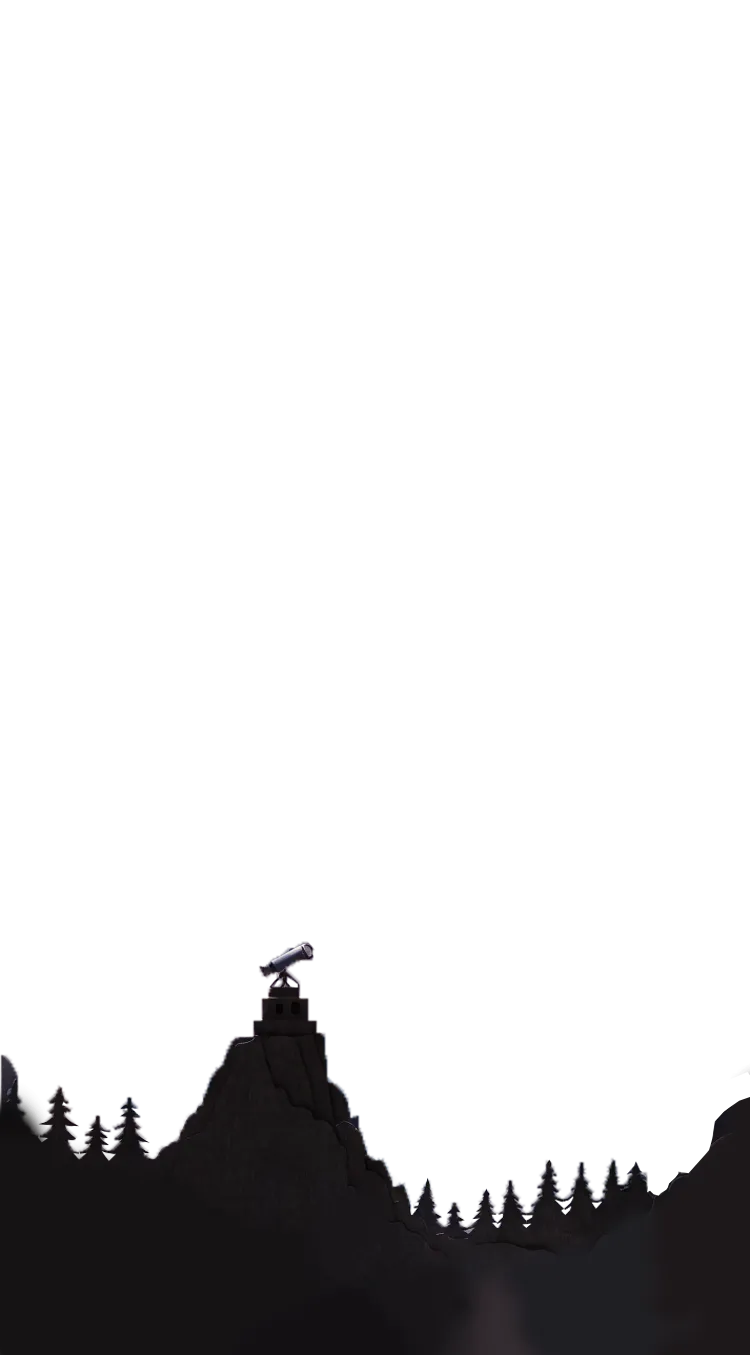
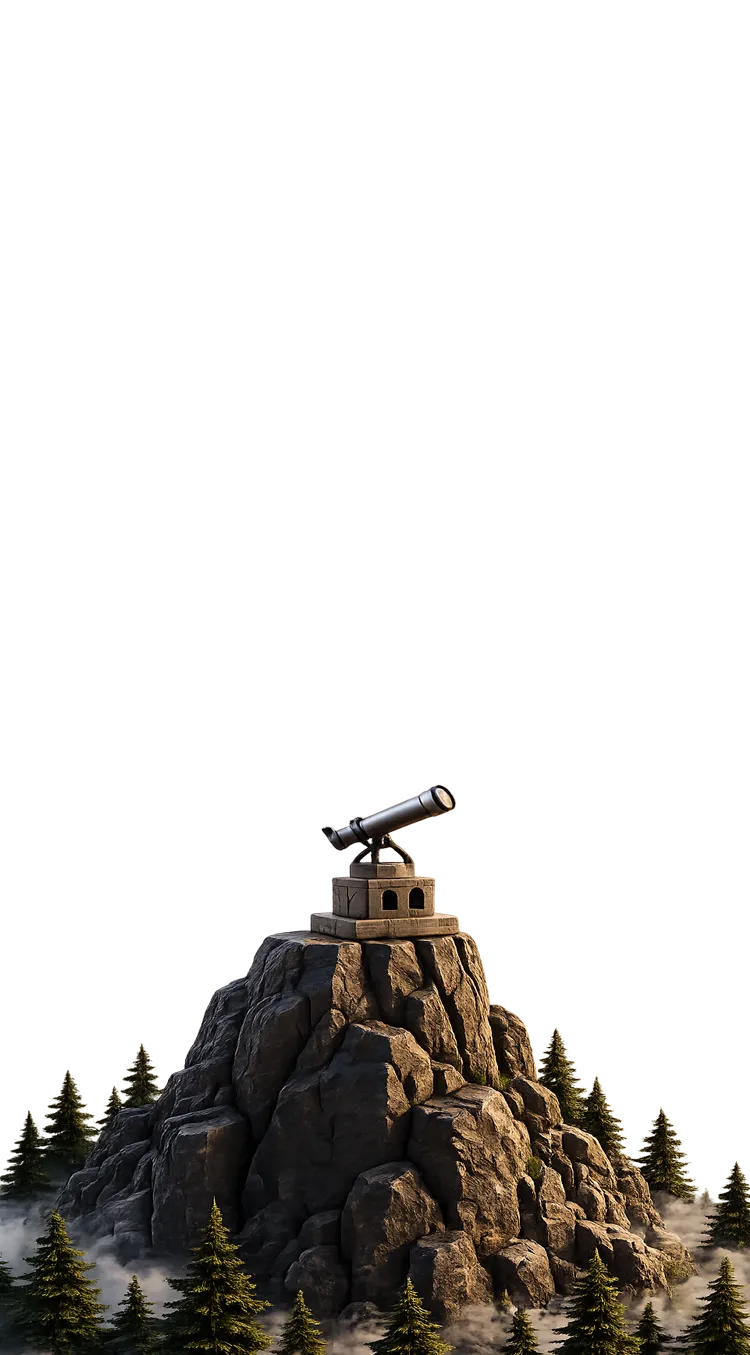
feat: per-event hidden toggle + replace mountain.webp with new artwork
- Added hidden field to WeddingEvent, filtered in EventsSection
- Replaced mountain.webp with higher quality telescope artwork (1209.png converted)

Changed region(s): [[0.0, 0.5579, 1.0, 1.0]]

diff --git a/components/sections/EventsSection.tsx b/components/sections/EventsSection.tsx
@@ -151,7 +151,7 @@ function EventNode({
 
 export default function EventsSection() {
   const weddingData = useWeddingData()
-  const events = weddingData.events
+  const events = weddingData.events.filter((e) => !e.hidden)
   const half = Math.ceil(events.length / 2)
   const row1 = events.slice(0, half)
   const row2 = events.slice(half)

diff --git a/context/WeddingDataContext.tsx b/context/WeddingDataContext.tsx
@@ -18,6 +18,7 @@ interface EditorEvent {
   description?: string
   image?: string
   color: string
+  hidden?: boolean
 }
 
 interface EditorStoryItem {
@@ -101,6 +102,7 @@ function mapEditorToConfig(d: EditorPayload): WeddingConfig {
           image: e.image || undefined,
           color: e.color,
           description: e.description,
+          hidden: e.hidden,
         }))
       : defaultData.events,
     galleryImages: d.galleryImages && d.galleryImages.length > 0

diff --git a/types/wedding.types.ts b/types/wedding.types.ts
@@ -9,6 +9,7 @@ export interface WeddingEvent {
   image?: string
   color: string
   description?: string
+  hidden?: boolean
 }
 
 export interface GalleryImage {